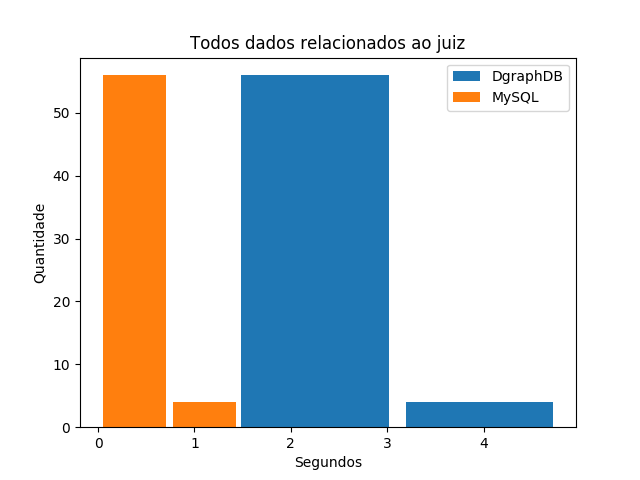
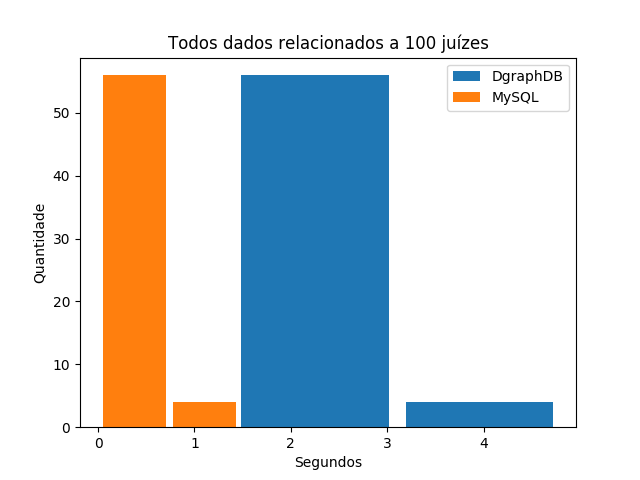
Better plot titles

Changed region(s): [[0.25, 0.0625, 0.75, 0.125]]

diff --git a/modules/plotter.py b/modules/plotter.py
@@ -80,9 +80,9 @@ class Plotter:
 
     def get_plot_title(self, name):
         title_map = {
-            "find_judge_with_more_lawsuits": "Juizes que julgaram mais processos",
-            "find_every_related_data": "Todos dados relacionados ao juiz",
-            "find_thousand_lawsuits_numbers": "Encontrar o numero de 1000 processo",
+            "find_judge_with_more_lawsuits": "5 Juízes que julgaram mais processos",
+            "find_every_related_data": "Todos dados relacionados a 100 juízes",
+            "find_thousand_lawsuits_numbers": "Encontrar os números de 1000 processos",
         }
         return title_map.get(name, "notfound")
 
